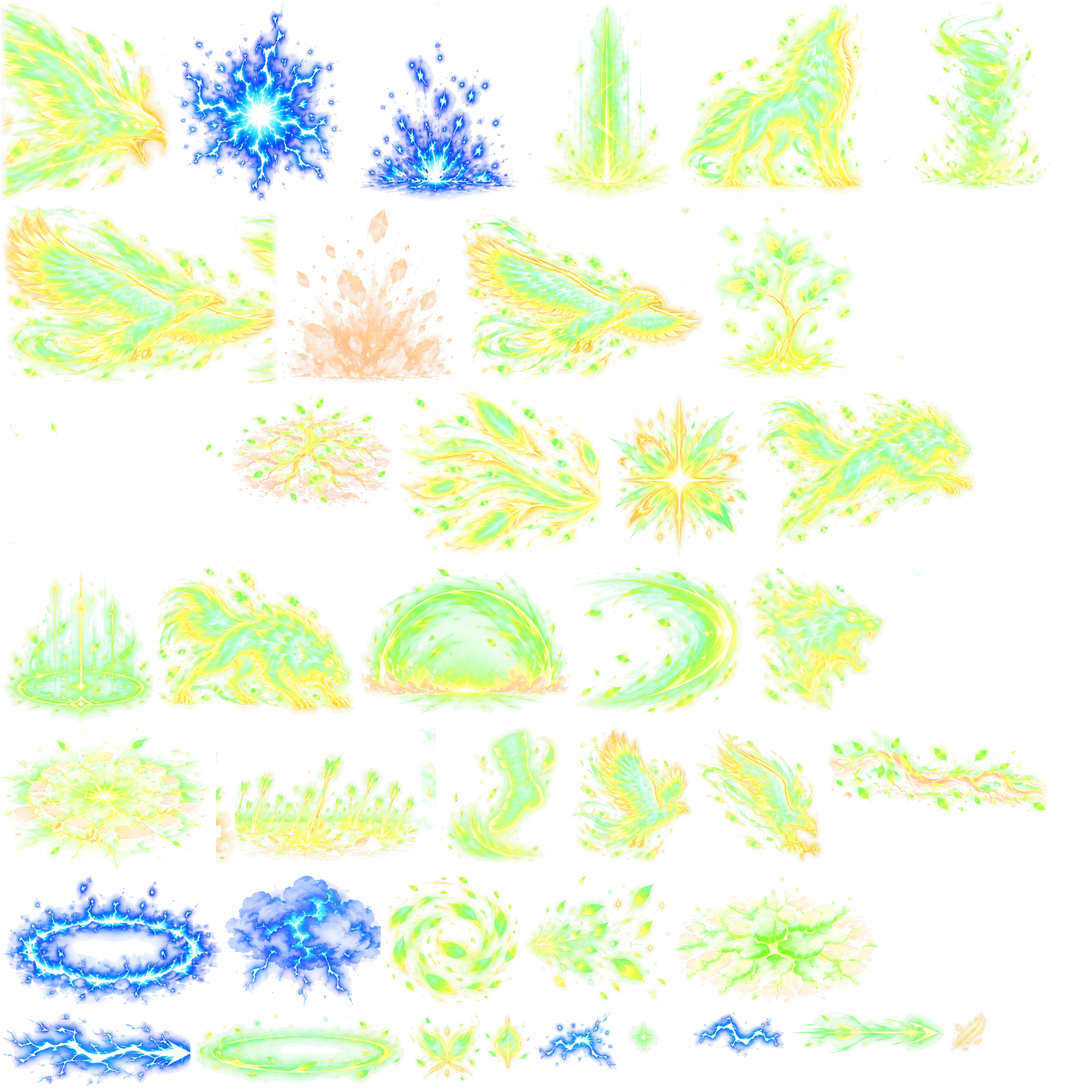
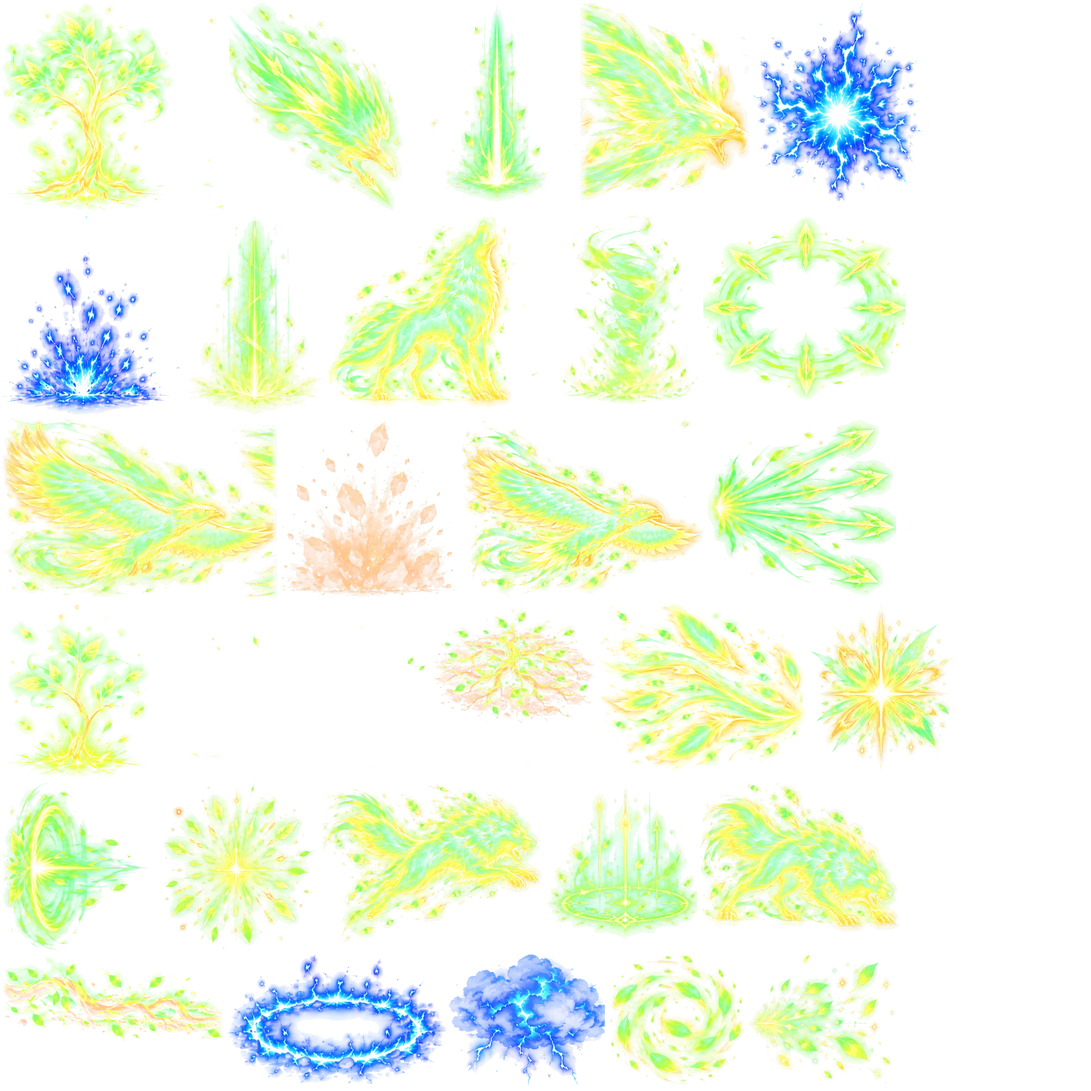
Archer: sixth painted sheet — Rising Arrow bursts up out of the earth, Triple Arrow looses with a fan of light and a sonic boom (the middle arrow wrapped in a wind spiral), Fireball's release boom, Air Volley's dive trail, Hunter's Spirit power aura with a halo of spirit arrows
Claude-Session: https://claude.ai/code/session_01VyjNmvWjWSa1nwJcopXfn1

diff --git a/src/skills/ArcherFx.ts b/src/skills/ArcherFx.ts
@@ -168,6 +168,12 @@ export class ArcherFx {
     this.spr({ name: 'muzzle', w: size, life: 200, delay, follow: this.at(r.attackerId, side, 14, 54), dz: 4, ox: lv.flip ? 0.85 : 0.15, flipX: lv.flip, angle: lv.ang, add: true, glow: 0.4, run: r,
       sx: kf([0, 0.4], [0.25, 1.1, out3], [1, 1.2]), sy: kf([0, 0.6], [0.25, 1, out3], [1, 0.6]), a: kf([0, 1], [0.5, 1], [1, 0, inQ]) });
   }
+  /** A painted burst at the bow along the aim (fan of light, sonic boom). */
+  private bowBurst(r: CastRun, name: string, size: number, delay = 0, life = 260): void {
+    const side = sideOf(r), lv = level(r.aim.x, r.aim.y);
+    this.spr({ name, w: size, life, delay, follow: this.at(r.attackerId, side, 16, 54), dz: 4, ox: lv.flip ? 0.88 : 0.12, flipX: lv.flip, angle: lv.ang, add: true, glow: 0.3, run: r,
+      sx: kf([0, 0.4], [0.3, 1.05, out3], [1, 1.2]), sy: kf([0, 0.6], [0.3, 1, out3]), a: kf([0, 1], [0.5, 0.9], [1, 0, inQ]) });
+  }
   /** Light gathering at the bow during a wind-up. */
   private charge(r: CastRun, name: string, size: number, ms: number, o: { tint?: number; spin?: number; dx?: number } = {}): void {
     const side = sideOf(r);
@@ -203,8 +209,8 @@ export class ArcherFx {
         this.later(T.startup + T.active, () => { const q = this.me(r); this.floor('wind_ring', q.x, q.y, 100, 380, { add: true, s: kf([0, 0.5], [1, 1.2, out3]), a: kf([0, 0.9], [1, 0]) }); this.spr({ name: 'dust', x: q.x, y: q.y + 4, oy: 0.85, depth: q.y + 1, w: 110, life: 420, a: kf([0, 0.7], [1, 0]) }); }, r);
         break;
       }
-      case 'multi_shot': this.charge(r, 'leaf_whirl', 56, T.startup, { spin: 420, dx: 16 }); this.muzzle(r, 130, T.startup); break;
-      case 'explosive_arrow': this.charge(r, 'burst_crit', 60, T.startup, { tint: 0xffa040, spin: 260, dx: 16 }); this.muzzle(r, 120, T.startup); break;
+      case 'multi_shot': this.charge(r, 'leaf_whirl', 56, T.startup, { spin: 420, dx: 16 }); this.bowBurst(r, 'muzzle_fan', 220, T.startup, 240); this.bowBurst(r, 'sonic_boom', 120, T.startup + 20, 300); break;
+      case 'explosive_arrow': this.charge(r, 'burst_crit', 60, T.startup, { tint: 0xffa040, spin: 260, dx: 16 }); this.muzzle(r, 120, T.startup); this.bowBurst(r, 'sonic_boom', 130, T.startup, 320); break;
       case 'rising_arrow': { // the earth cracks and glows under the foe, gathering power; then a great arrow of light bursts up out of it and throws the foe high
         const sh = s.hits[0].shape as { bias?: number }, bx = r.origin.x + a.x * (sh.bias ?? 95), by = r.origin.y + a.y * (sh.bias ?? 95);
         this.floor('rune_circle', bx, by, 150, T.startup + T.active + 300, { add: true, glow: 0.3, run: r, rot: () => 0, s: kf([0, 0.3], [0.5, 1, out3]), a: kf([0, 0], [0.2, 0.9], [0.75, 0.8], [1, 0]) });
@@ -212,7 +218,7 @@ export class ArcherFx {
         for (let k = 0; k < 4; k++) this.later(k * T.startup / 4, () => this.leaves(bx, by, 2, 40, { up: 20, life: 500 }), r); // the ground stirs
         this.later(T.startup, () => {
           this.spr({ name: 'launch_beam', x: bx, y: by + 6, oy: 0.97, depth: by + 3, w: 110, life: 520, add: true, glow: 0.3, sy: kf([0, 0.1], [0.2, 1.15, out3], [1, 1]), sx: kf([0, 1.2], [1, 0.5]), a: kf([0, 1], [0.55, 1], [1, 0, inQ]) });
-          this.spr({ name: 'arrow_heavy', x: bx, y: by - 10, depth: by + 4, w: 150, angle: -90, glow: 0.3, life: 380, my: (u) => -230 * out3(u), a: kf([0, 1], [0.7, 1], [1, 0]) }); // the arrow itself flies up out of the earth
+          this.spr({ name: 'rise_arrow', x: bx, y: by + 8, oy: 0.97, depth: by + 4, w: 150, glow: 0.3, life: 460, my: (u) => -120 * out3(Math.max(0, u - 0.3) / 0.7), sy: kf([0, 0.2], [0.25, 1.1, out3], [1, 1]), a: kf([0, 1], [0.6, 1], [1, 0, inQ]) }); // the arrow itself bursts up out of the earth
           this.spr({ name: 'dust', x: bx, y: by + 4, oy: 0.85, depth: by + 1, w: 150, life: 600, sx: kf([0, 0.5], [1, 1.4, out3]), a: kf([0, 0.85], [1, 0, inQ]) });
           this.pop('leaf_spray', bx, by - 40, 120, { angle: -90, life: 380 });
           this.floor('shock_ring', bx, by, 160, 420, { add: true, s: kf([0, 0.4], [1, 1.3, out3]), a: kf([0, 1], [1, 0, inQ]) });
@@ -245,7 +251,7 @@ export class ArcherFx {
         }, r);
         break;
       }
-      case 'skyhunters_step': this.floor('wind_ring', me.x, me.y, 140, 520, { add: true, glow: 0.4, run: r, s: kf([0, 0.4], [0.4, 1.2, out3]), a: kf([0, 0.9], [1, 0, inQ]) }); this.leaves(me.x, me.y - 10, 8, 40); break;
+      case 'skyhunters_step': this.spr({ name: 'dive_trail', w: 190, life: 420, delay: T.startup, follow: this.at(r.attackerId, -side, 30, 60), dz: -2, flipX: side < 0, add: true, run: r, a: kf([0, 0], [0.15, 0.85], [1, 0, inQ]) }); this.floor('wind_ring', me.x, me.y, 140, 520, { add: true, glow: 0.4, run: r, s: kf([0, 0.4], [0.4, 1.2, out3]), a: kf([0, 0.9], [1, 0, inQ]) }); this.leaves(me.x, me.y - 10, 8, 40); break;
       case 'vine_trap': break; // the mine itself (trap)
       case 'rain_of_arrows': this.thunderCharge(r); break;
       case 'piercing_arrow': this.spiritBow(r); break;
@@ -274,10 +280,16 @@ export class ArcherFx {
       case 'leaping_arrow': this.bindingRoots(r); break;
       case 'spirit_hawk': this.hawkCall(r); break;
       case 'tree_of_life': this.tree(r); break;
-      case 'hunters_spirit': { // a column of golden light rises round her, feathers and sparks
-        this.spr({ name: 'aura_gold', w: 120, oy: 0.92, follow: this.at(r.attackerId, 0, 0, -6), dz: 1, life: T.startup + T.active + 700, add: true, glow: 0.3, run: r,
-          sy: kf([0, 0.2], [0.35, 1, out3]), a: kf([0, 0], [0.2, 0.95], [0.75, 0.9], [1, 0]) });
-        this.later(T.startup, () => { const q = this.me(r); this.pop('sparkles', q.x, q.y - q.z - 70, 110, { life: 600 }); this.floor('shock_ring', q.x, q.y, 140, 420, { add: true, tint: 0xffe27a, s: kf([0, 0.4], [1, 1.4, out3]), a: kf([0, 1], [1, 0]) }); }, r);
+      case 'hunters_spirit': { // power rises round her in green-gold flames of light; a halo of spirit arrows turns about her; a flash of sparkles
+        this.spr({ name: 'power_aura', w: 170, oy: 0.95, follow: this.at(r.attackerId, 0, 0, -8), dz: 1, life: T.startup + T.active + 900, add: true, glow: 0.3, run: r,
+          sy: (u) => kf([0, 0.2], [0.25, 1.05, out3], [0.4, 1])(u) * (1 + 0.04 * Math.sin(u * 40)), a: kf([0, 0], [0.15, 1], [0.7, 0.9], [1, 0]) });
+        this.later(T.startup, () => {
+          const q = this.me(r);
+          this.floor('arrow_halo', q.x, q.y, 240, 1200, { add: true, run: r, s: kf([0, 0.4], [0.25, 1.05, out3], [1, 1.15]), a: kf([0, 0], [0.1, 1], [0.7, 0.9], [1, 0]) });
+          this.pop('power_flash', q.x, q.y - q.z - 70, 200, { life: 420 });
+          this.floor('shock_ring', q.x, q.y, 160, 420, { add: true, tint: 0xffe27a, s: kf([0, 0.4], [1, 1.4, out3]), a: kf([0, 1], [1, 0]) });
+          this.leaves(q.x, q.y - 40, 12, 60, { up: 120, life: 900 });
+        }, r);
         break;
       }
       case 'eagle_arrow': this.eagleTide(r); break;
@@ -609,8 +621,9 @@ export class ArcherFx {
     const id = p.skill.id;
     let iron = false;
     if (id === 'multi_shot') { const n = (this.fanCount.get(p.castId) ?? 0) + 1; this.fanCount.set(p.castId, n); iron = n % 2 === 0; if (n === 1) this.later(2000, () => this.fanCount.delete(p.castId)); } // between the green arrows: iron ones
-    const kind = id === 'explosive_arrow' || iron ? 'arrow_heavy' : 'arrow_wind';
-    const w = id === 'explosive_arrow' ? 110 : id === 'piercing_arrow' ? 56 : id === 'skyhunters_step' ? 80 : 86;
+    const mid = id === 'multi_shot' && (this.fanCount.get(p.castId) ?? 0) === 3;
+    const kind = mid ? 'spiral_arrow' : id === 'explosive_arrow' || iron ? 'arrow_heavy' : 'arrow_wind';
+    const w = mid ? 130 : id === 'explosive_arrow' ? 110 : id === 'piercing_arrow' ? 56 : id === 'skyhunters_step' ? 80 : 86;
     const s = this.ctx.scene, fr = s.textures.getFrame(ARCHER_KIT, kind);
     const im = s.add.image(p.x, p.y - p.z, ARCHER_KIT, kind).setOrigin(0.92, 0.5).setDisplaySize(w, (w * fr.height) / fr.width).setAlpha(0);
     if (id === 'explosive_arrow') im.setTint(0xffc070, 0xffc070, 0xff8a30, 0xff8a30);

diff --git a/tools/skills/kit.py b/tools/skills/kit.py
@@ -93,6 +93,7 @@ ARCHER_SHEETS = {
                 ('wolf_crouch', (0, 512, 390, 1024), 380), ('wolf_leap', (390, 512, 805, 1024), 420), ('wolf_howl', (805, 512, 1150, 1024), 400), ('roar_wave', (1150, 512, 1536, 1024), 420)],
     'a13.png': grid(4, 2, ['sky_rune', 'volley', 'gold_arrow', 'sky_pillar', 'gold_blast', 'arrow_field', 'sky_clouds', 'gold_ring'], [440, 400, 440, 460, 400, 420, 420, 440]),
     'a14.png': grid(4, 2, ['tree_1', 'tree_2', 'tree_3', 'tree_4', 'vine_burst', 'vine_spiral', 'hawk_strike', 'leaf_ring'], [300, 380, 440, 480, 420, 420, 400, 420]),
+    'a15.png': grid(4, 2, ['rise_arrow', 'muzzle_fan', 'sonic_boom', 'spiral_arrow', 'power_aura', 'arrow_halo', 'power_flash', 'dive_trail'], [420, 360, 320, 360, 420, 400, 320, 400]),
     'a9.png': [('bow', (0, 40, 390, 480), 300, 'box')] + grid(4, 2, [None, 'bow_drawn', 'aura_gold', 'aura_green', 'emblem', 'pillar', 'sparkles', 'rain_ring'], [300, 300, 300, 300, 240, 380, 200, 300]),
 }
 PROFILES = {'samurai': (G + 'tools/skills/gpt/kit/', G + 'public/assets/final/skills/samurai/kit/', None),
